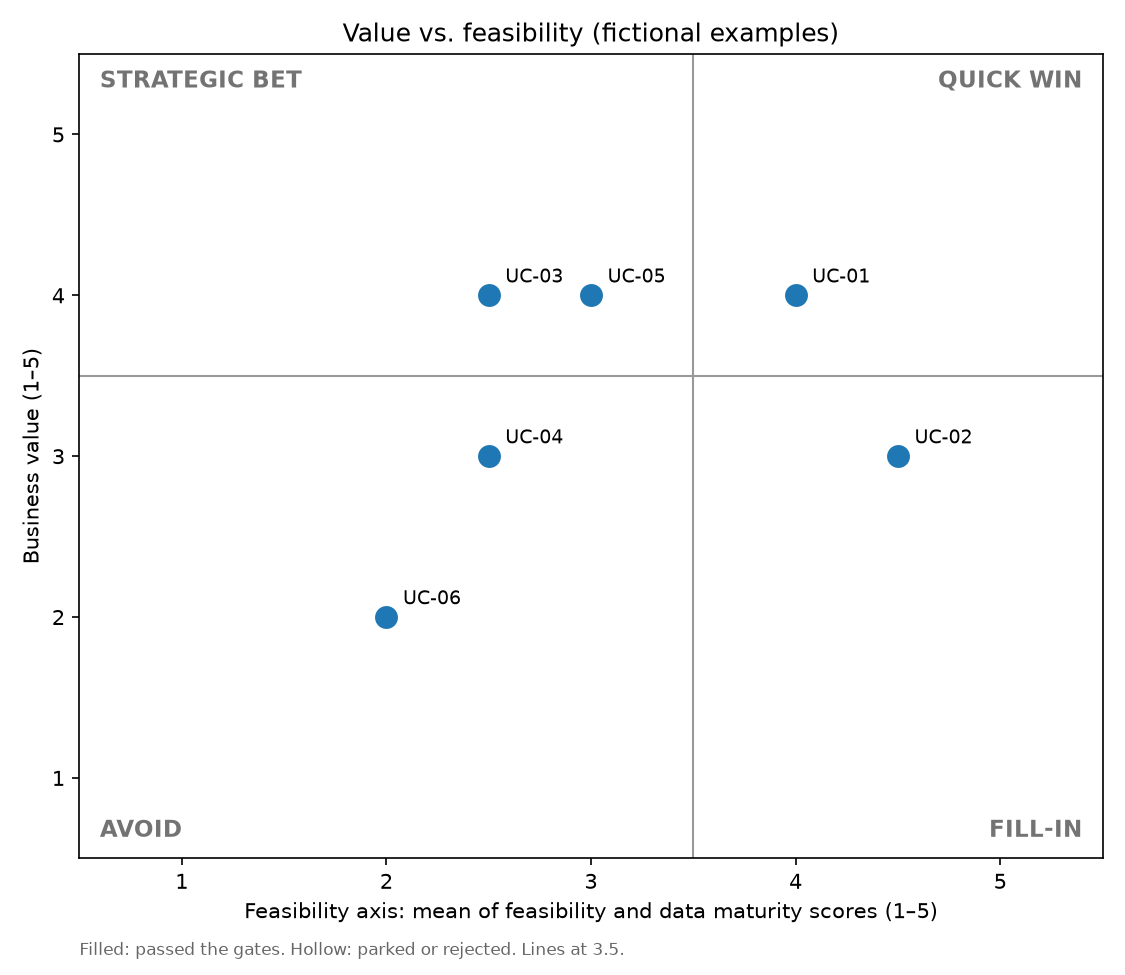
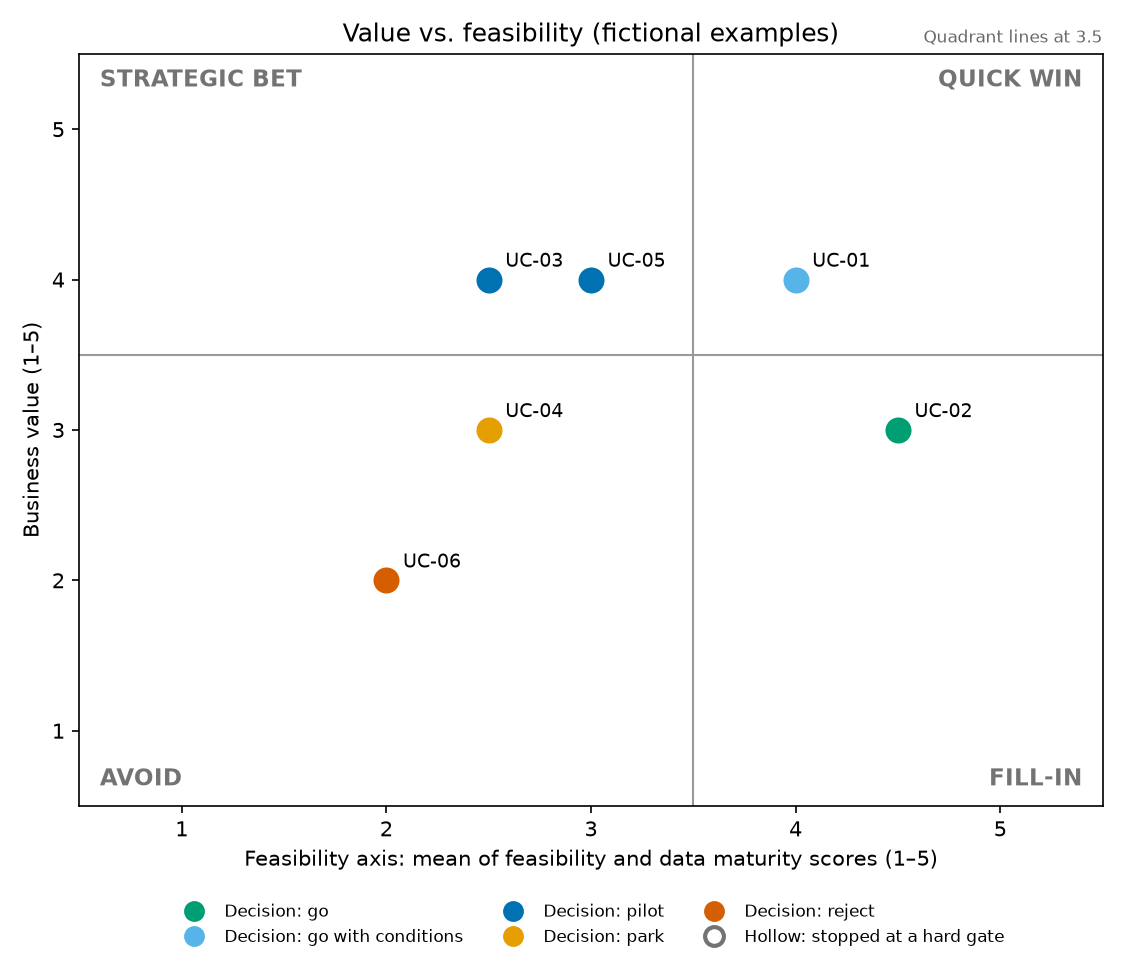
Regenerate example records, decisions table and charts

diff --git a/examples/UC-03_work_order_classification/decision_record.md b/examples/UC-03_work_order_classification/decision_record.md
@@ -13,6 +13,7 @@ Generated by `scoring/build_examples.py` from `decision.yaml` and the computed s
 | Decision date | 2026-10-20 |
 | Decision makers | Sponsor: Director of Maintenance (fictional); Process owner: Head of Maintenance Planning (fictional); Data owner: Maintenance Data Manager (fictional); Finance: Controlling Business Partner (fictional) |
 | Decision stage | business case |
+| Review gate outcomes | rework (2027-03-01), continue (2027-06-01); see section 9 |
 
 Pilot. The value is real but rests on an untested assumption: that a model can code our technicians' free text well enough. The failure-code list also needs a clean-up first. A 3-month pilot on two aircraft types measures accuracy, time saved and coverage before any roll-out. The pessimistic scenario is negative, so the pilot ends with a review gate with stop or rework triggers; accuracy is added as a third trigger because it is the pilot's main question.
 
@@ -71,7 +72,7 @@ Because a scenario is negative, the decision carries a review gate on **2027-03-
 
 If all triggers are reached, the NPV falls to -€11,586 (the full pessimistic scenario).
 
-**At the gate:** if no trigger is reached, the case continues to the standard value review. If a trigger is reached, the sponsor decides to **stop**, or to **rework** (named actions, owner, date) and re-run the business case on the measured values. The case continues only if that re-run has a positive NPV, recorded in a new decision record.
+**At the gate:** if no trigger is reached, the case continues to the standard value review. If a trigger is reached, the sponsor decides to **stop**, or to **rework** (named actions, owner, date). A rework is allowed only if the business case, re-run on the measured values with the expected effect and cost of the rework, has a positive NPV; otherwise the case stops. Gate outcomes are recorded in section 9.
 
 ## 6. Key risks and mitigations
 
@@ -95,3 +96,41 @@ If all triggers are reached, the NPV falls to -€11,586 (the full pessimistic s
 | Review date | 2027-03-01 |
 | What will be reviewed | Measured accuracy, time saved and coverage; decision to roll out, rework or stop. |
 | Reopening trigger (park only) | not applicable |
+
+## 9. Review gate outcomes
+
+Each gate compares the measured values with the stop or rework thresholds of section 5 and re-runs the business case on the measured values (same 36-month horizon and start date; the delay caused by a rework is not modelled).
+
+### Gate 1: 2027-03-01. Decision: **Rework**
+
+| Trigger | Stop or rework if | Measured | Reached? |
+|---|---|---|---|
+| Share with a wrong failure code with the solution | at or above 14.0% | 15% | **yes** |
+| Coding time per work order with the solution | time saved at or below 1 minute per transaction (handling time at or above 1 minute) | 1.2 minutes saved (handling time 0.8 minutes) | no |
+| Adoption after the ramp-up | at or below 50% | 45% | **yes** |
+
+- 3-year NPV re-run on the measured values: **-€25,416**.
+- Re-run with the rework plan (share with a wrong failure code with the solution 10%, adoption after the ramp-up 65%) and its cost of €18,000: **€59,815**. Positive, so a rework is allowed; otherwise the rule leaves only stop.
+
+Two triggers reached. The model mislabels short entries written in technician shorthand, and it returns a confident code for only 45% of pilot work orders, because the training labels still contained retired codes. Time saved is above its threshold: planners are faster when a suggestion is shown. Continuing unchanged would give a negative NPV, so the sponsor chose a time-boxed rework instead of a stop.
+
+| Rework action | Owner | Due |
+|---|---|---|
+| Relabel 2,000 work orders with the cleaned code list and retrain. | Maintenance Data Manager (fictional) | 2027-04-15 |
+| Add an abbreviation dictionary built with senior technicians. | Head of Reliability Engineering (fictional) | 2027-04-15 |
+| Lower the scope to the 150 codes that cover 90% of pilot work orders. | Head of Maintenance Planning (fictional) | 2027-04-30 |
+
+Next review gate: **2027-06-01**, same triggers.
+
+### Gate 2: 2027-06-01. Decision: **Continue**
+
+| Trigger | Stop or rework if | Measured | Reached? |
+|---|---|---|---|
+| Share with a wrong failure code with the solution | at or above 14.0% | 11% | no |
+| Coding time per work order with the solution | time saved at or below 1 minute per transaction (handling time at or above 1 minute) | 1.3 minutes saved (handling time 0.7 minutes) | no |
+| Adoption after the ramp-up | at or below 50% | 62% | no |
+
+- 3-year NPV re-run on the measured values, including €18,000 of earlier rework cost: **€41,595**.
+
+No trigger reached after the rework. Accuracy and coverage are better but still below the original plan (8% error rate, 80% coverage). The re-run NPV is positive, so the roll-out to all aircraft types continues; the value tracking keeps the original plan to make the gap visible.
+

diff --git a/examples/UC-01_delivery_note_ocr/decision_record.md b/examples/UC-01_delivery_note_ocr/decision_record.md
@@ -13,6 +13,7 @@ Generated by `scoring/build_examples.py` from `decision.yaml` and the computed s
 | Decision date | 2026-10-20 |
 | Decision makers | Sponsor: Director of Supply Chain (fictional); Process owner: Head of Goods Receipt (fictional); Finance: Controlling Business Partner (fictional); IT: Head of ERP Applications (fictional) |
 | Decision stage | business case |
+| Review gate outcomes | continue (2027-04-11); see section 9 |
 
 Go, with conditions. The case is the portfolio's clear quick win: high volume, a proven technique and a human check on every receipt. The base case pays back in 11 months, but the pessimistic scenario does not pay back within 3 years, so the go is tied to a 3-month review gate on time saved and adoption, the two inputs the process owner can measure early.
 
@@ -70,7 +71,7 @@ Because a scenario is negative, the decision carries a review gate on **2027-04-
 
 If all triggers are reached, the NPV falls to €25,063; if share of saved hours redeployed or avoiding a cost is also at its pessimistic value (the full pessimistic scenario), to -€24,628.
 
-**At the gate:** if no trigger is reached, the case continues to the standard value review. If a trigger is reached, the sponsor decides to **stop**, or to **rework** (named actions, owner, date) and re-run the business case on the measured values. The case continues only if that re-run has a positive NPV, recorded in a new decision record.
+**At the gate:** if no trigger is reached, the case continues to the standard value review. If a trigger is reached, the sponsor decides to **stop**, or to **rework** (named actions, owner, date). A rework is allowed only if the business case, re-run on the measured values with the expected effect and cost of the rework, has a positive NPV; otherwise the case stops. Gate outcomes are recorded in section 9.
 
 Monitored at the gate but not a trigger: Share of saved hours redeployed or avoiding a cost (pessimistic 25%, NPV if only this input is pessimistic €29,741).
 
@@ -96,3 +97,19 @@ Monitored at the gate but not a trigger: Share of saved hours redeployed or avoi
 | Review date | 2027-04-11 |
 | What will be reviewed | Measured time saved, processable share of notes, field accuracy, claims backlog, incidents. |
 | Reopening trigger (park only) | not applicable |
+
+## 9. Review gate outcomes
+
+Each gate compares the measured values with the stop or rework thresholds of section 5 and re-runs the business case on the measured values (same 36-month horizon and start date; the delay caused by a rework is not modelled).
+
+### Gate 1: 2027-04-11. Decision: **Continue**
+
+| Trigger | Stop or rework if | Measured | Reached? |
+|---|---|---|---|
+| Handling time per transaction with the AI solution | time saved at or below 3 minutes per transaction (handling time at or above 3 minutes) | 3.6 minutes saved (handling time 2.4 minutes) | no |
+| Adoption after the ramp-up | at or below 60% | 78% | no |
+
+- 3-year NPV re-run on the measured values: **€93,621**.
+
+No trigger reached. Checking takes longer than planned (2.4 instead of 2 minutes) because clerks re-read low-confidence fields, but time saved and the processable share are both well above their thresholds. The case moves to the standard value review.
+

diff --git a/examples/UC-05_policy_assistant/decision_record.md b/examples/UC-05_policy_assistant/decision_record.md
@@ -70,7 +70,7 @@ Because a scenario is negative, the decision carries a review gate on **2027-04-
 
 If all triggers are reached, the NPV falls to -€35,421; if share of saved hours redeployed or avoiding a cost is also at its pessimistic value (the full pessimistic scenario), to -€62,536.
 
-**At the gate:** if no trigger is reached, the case continues to the standard value review. If a trigger is reached, the sponsor decides to **stop**, or to **rework** (named actions, owner, date) and re-run the business case on the measured values. The case continues only if that re-run has a positive NPV, recorded in a new decision record.
+**At the gate:** if no trigger is reached, the case continues to the standard value review. If a trigger is reached, the sponsor decides to **stop**, or to **rework** (named actions, owner, date). A rework is allowed only if the business case, re-run on the measured values with the expected effect and cost of the rework, has a positive NPV; otherwise the case stops. Gate outcomes are recorded in section 9.
 
 Monitored at the gate but not a trigger: Share of saved hours redeployed or avoiding a cost (pessimistic 10%, NPV if only this input is pessimistic -€23,284).
 
@@ -97,3 +97,7 @@ Monitored at the gate but not a trigger: Share of saved hours redeployed or avoi
 | Review date | 2027-04-11 |
 | What will be reviewed | Measured time saved and adoption, answer-quality sample, incidents; decision to roll out, rework or stop. |
 | Reopening trigger (park only) | not applicable |
+
+## 9. Review gate outcomes
+
+No review gate recorded yet (due on 2027-04-11).
